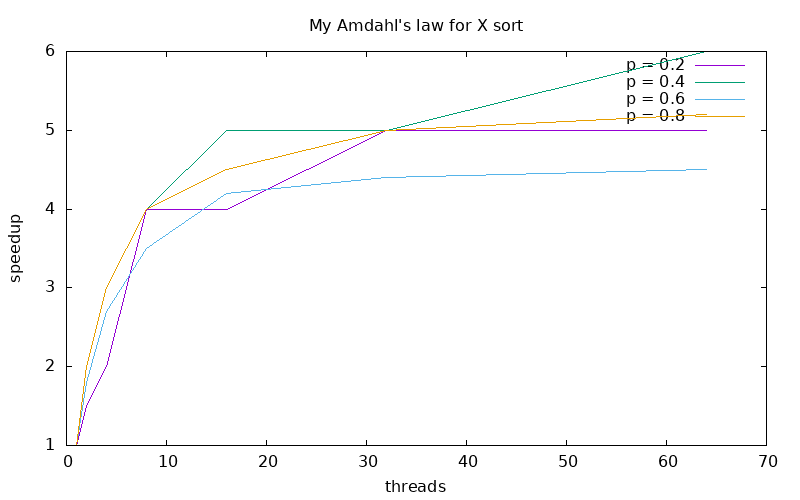
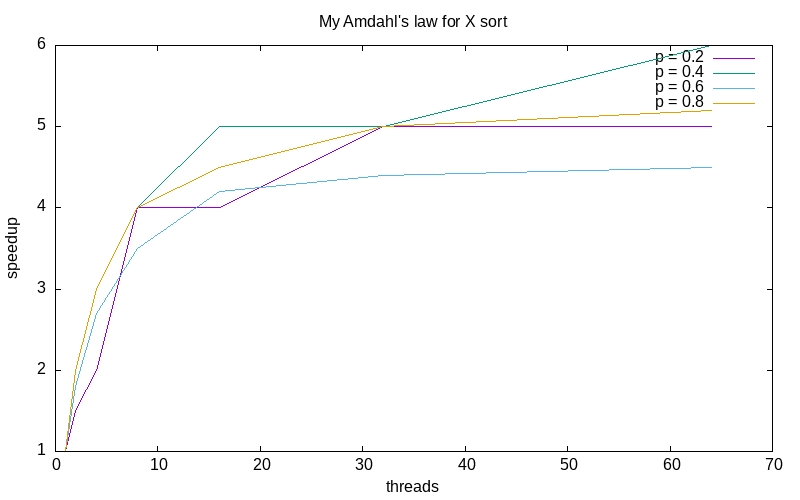
Report task 2 in progress

diff --git a/REPORT.md b/REPORT.md
@@ -11,10 +11,62 @@ Source files:
 
 ## Task 2: Amdahl's Law
 
-Our Amdahl's law ...
+In this section, we will estimate, based on Amdahl’s law, the theoretical speedup obtained for a multi-threaded merge sort algorithm. To do this, we need to make a few assumptions: 
+-   For an array of size n, the number of comparisons needed to sort the array is n*log(n).
+- At each step, the array is divided into two equal parts.
 
-Here is a plot of our version of Amdahl's law ...
+#### For s=2 threads
+Let’s start with 2 threads to understand the reasoning and be able to generalize it for s threads. First, we need to partition the array into two equal parts. Thus, the lower and upper half can be sorted independently by threads 1 and 2. The merging of the two is sequential work that takes time n.
 
+![two threads amdahl's law sketch](data/2threadsAmdahl.png)
+So for two threads, we have the following:
+
+\[
+p = \frac{2 \cdot \frac{n}{2}  \log_2\left(\frac{n}{2}\right)}{n + 2 \cdot \frac{n}{2}  \log_2\left(\frac{n}{2}\right)} = \frac{\log_2\left(\frac{n}{2}\right)}{1 + \log_2\left(\frac{n}{2}\right)},
+\]
+
+\[
+1-p = \frac{n}{n + 2 \cdot \frac{n}{2}  \log_2\left(\frac{n}{2}\right)} = \frac{1}{1 + \log_2\left(\frac{n}{2}\right)},
+\]
+
+\[
+S_{2,n} = \frac{1}{1-p+ \frac{p}{2}} = \frac{1}{\frac{1}{1 + \log_2\left(\frac{n}{2}\right)}+\frac{\log_2\left(\frac{n}{2}\right)}{2\left( 1 + \log_2\left(\frac{n}{2}\right) \right) }}
+\]
+
+\[
+\textcolor{red}{\underline{ \textcolor{black}{S_{2,n}  = \frac{2 + 2\log_2\left(\frac{n}{2}\right)}{2 + \log_2\left(\frac{n}{2}\right)}}}
+}
+\]
+
+#### For s threads
+
+Let’s assume first that there exists $p$ such that $s = 2^p$ to simplify the reasoning. For a larger number of threads s, we only achieve full parallelism after sufficient partitioning (tree depth of $\log_2 (s)$). Once this parallelism is reached, each thread can sort its array in $\frac{n}{s}\log_2\left(\frac{n}{s}\right)$. Then, the merging steps are parallelized for i ranging from $\log_2 (s)-1$ to $0$ , with the number of threads decreasing from $\frac{log_2(s)}{2}$ to 1.
+
+So for s threads, we have the following:
+
+\[
+\forall i \in [0, \log_2(s) - 1], \, p_i =\frac{n}{n\log_2\left(s\right)+n\log_2\left(\frac{n}{s}\right)}=\frac{1}{\log_2\left(s\right)+\log_2\left(\frac{n}{s}\right)},
+\]
+\[
+\text{For } i = \log_2(s), \, p_i =\frac{n\log_2\left(\frac{n}{s}\right)}{n\log_2\left(s\right)+n\log_2\left(\frac{n}{s}\right)}=\frac{\log_2\left(\frac{n}{s}\right)}{\log_2\left(s\right)+\log_2\left(\frac{n}{s}\right)}
+\]
+\[
+S_{s,n} =\frac{1}{\left( \sum_{0}^{\log_2(s)-1}\frac{\left( {\frac{1}{2}} \right)^i}{\log_2\left(s\right)+\log_2\left(\frac{n}{s}\right)} \right)+\frac{\frac{1}{s}\log_2\left(\frac{n}{s}\right)}{\log_2\left(s\right)+\log_2\left(\frac{n}{s}\right)}},
+\]
+\[
+\textcolor{red}{\underline{ \textcolor{black}{S_{s,n} =\frac{\log_2\left(s\right)+\log_2\left(\frac{n}{s}\right)}{2-\left( \frac{1}{2} \right)^{\log_2\left( s \right)-1}+\frac{1}{s}\log_2\left(\frac{n}{s}\right)}}}}
+\]
+To answer the question, here is  Amdahl's law for the merge sort algorithm with 4, 8, and 16 threads respectively (according to the precedence formula),
+
+\[
+S_{4,n} =\frac{8+4\log_2\left(\frac{n}{4}\right)}{6+\log_2\left(\frac{n}{4}\right)}
+\]
+\[
+S_{8,n} = ...
+\]
+\[
+S_{16,n} = ...
+\]
 ![amdahl's law plot](data/amdahl.png)
 
 We see that ...
